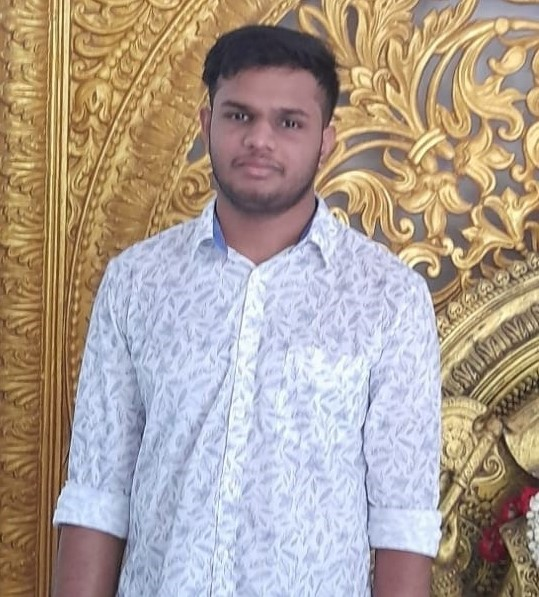
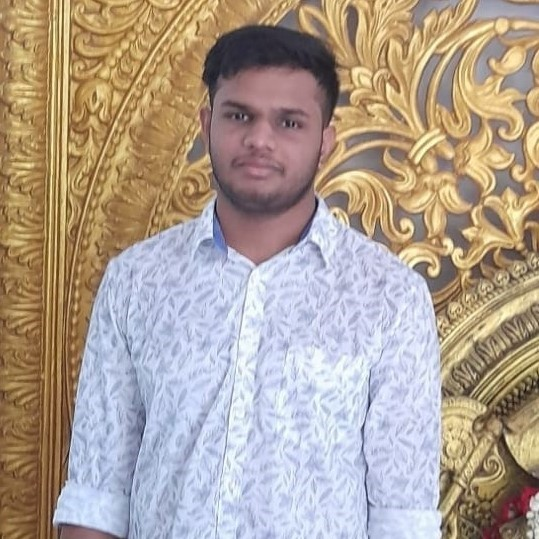
Update Unwanted code removed | Resized Team Imagesages

diff --git a/index.html b/index.html
@@ -395,7 +395,7 @@
 
           <div class="col-lg-6 mt-4 mt-lg-0" data-aos="zoom-in" data-aos-delay="200">
             <div class="member d-flex align-items-start">
-              <div class="pic"><img src="assets/img/team/mentor.jpg" class="img-fluid" alt=""></div>
+              <div class="pic" style="width: 480px;"><img src="assets/img/team/mentor.jpg" class="img-fluid" alt=""></div>
               <div class="member-info">
                 <h4>Hari S</h4>
                 <span><b>MENTOR</b></span>
@@ -425,15 +425,16 @@
                 </div>
               </div>
             </div>
-          </div>
+          </div>        
 
+          
           <div class="col-lg-6 mt-4" data-aos="zoom-in" data-aos-delay="400">
             <div class="member d-flex align-items-start">
-              <div class="pic"><img src="assets/img/team/febin.jpg" class="img-fluid" alt=""></div>
+              <div class="pic"><img src="assets/img/team/brighty.jpg" class="img-fluid" alt=""></div>
               <div class="member-info">
-                <h4>Febin Mon Saji</h4>
-                <span><b>SECURITY MENTOR</b></span>
-                <p>As a Security Mentor, I hold certifications as a Certified Ethical Hacker and Red Team Professional. My expertise in the security field allows me to provide valuable guidance and insights to help individuals and organizations navigate the ever-evolving landscape of cybersecurity.</p>
+                <h4>Brighty Jiji Abraham</h4>
+                <span><b>TECH-MENTOR</b></span>
+                <p> The point of using Lorem Ipsum is that it has a more-or-less normal distribution of letters, as opposed to using 'Content here, content here', making it look like readable English.</p>
                 <div class="social">
                   <a href=""><i class="ri-twitter-fill"></i></a>
                   <a href=""><i class="ri-facebook-fill"></i></a>
@@ -444,14 +445,13 @@
             </div>
           </div>
 
-          
           <div class="col-lg-6 mt-4" data-aos="zoom-in" data-aos-delay="400">
             <div class="member d-flex align-items-start">
-              <div class="pic"><img src="assets/img/team/brighty.jpg" class="img-fluid" alt=""></div>
+              <div class="pic" style="width: 480px;" ><img src="assets/img/team/febin.jpg" class="img-fluid" alt=""></div>
               <div class="member-info">
-                <h4>Brighty Jiji Abraham</h4>
-                <span><b>TECH-MENTOR</b></span>
-                <p>It is a long established fact that a reader will be distracted by the readable content of a page when looking at its layout. The point of using Lorem Ipsum is that it has a more-or-less normal distribution of letters, as opposed to using 'Content here, content here', making it look like readable English.</p>
+                <h4>Febin Mon Saji</h4>
+                <span><b>SECURITY MENTOR</b></span>
+                <p>As a Security Mentor, I hold certifications as a Certified Ethical Hacker and Red Team Professional. My expertise in the security field allows me to provide valuable guidance and insights to help individuals and organizations navigate the ever-evolving landscape of cybersecurity.</p>
                 <div class="social">
                   <a href=""><i class="ri-twitter-fill"></i></a>
                   <a href=""><i class="ri-facebook-fill"></i></a>
@@ -487,7 +487,7 @@
               <div class="member-info">
                 <h4>Aswathy S</h4>
                 <span><b>WEB DEVELOPER</b></span>
-                <p>It is a long established fact that a reader will be distracted by the readable content of a page when looking at its layout. The point of using Lorem Ipsum is that it has a more-or-less normal distribution of letters, as opposed to using 'Content here, content here', making it look like readable English.</p>
+                <p> The point of using Lorem Ipsum is that it has a more-or-less normal distribution of letters, as opposed to using 'Content here, content here', making it look like readable English.</p>
                 <div class="social">
                   <a href=""><i class="ri-twitter-fill"></i></a>
                   <a href=""><i class="ri-facebook-fill"></i></a>
@@ -504,7 +504,7 @@
               <div class="member-info">
                 <h4>Amala <Body></Body></h4>
                 <span><b>PIC Editor</b></span>
-                <p>It is a long established fact that a reader will be distracted by the readable content of a page when looking at its layout. The point of using Lorem Ipsum is that it has a more-or-less normal distribution of letters, as opposed to using 'Content here, content here', making it look like readable English.</p>
+                <p> The point of using Lorem Ipsum is that it has a more-or-less normal distribution of letters, as opposed to using 'Content here, content here', making it look like readable English.</p>
                 <div class="social">
                   <a href=""><i class="ri-twitter-fill"></i></a>
                   <a href=""><i class="ri-facebook-fill"></i></a>
@@ -521,7 +521,7 @@
               <div class="member-info">
                 <h4>Jerin Joseph Sebastian</h4>
                 <span><b>CONTENT COLLECTOR</b></span>
-                <p>It is a long established fact that a reader will be distracted by the readable content of a page when looking at its layout. The point of using Lorem Ipsum is that it has a more-or-less normal distribution of letters, as opposed to using 'Content here, content here', making it look like readable English.</p>
+                <p> The point of using Lorem Ipsum is that it has a more-or-less normal distribution of letters, as opposed to using 'Content here, content here', making it look like readable English.</p>
                 <div class="social">
                   <a href=""><i class="ri-twitter-fill"></i></a>
                   <a href=""><i class="ri-facebook-fill"></i></a>
@@ -538,7 +538,7 @@
               <div class="member-info">
                 <h4>Subi O Kuttan</h4>
                 <span><b>PIC EDITOR</b></span>
-                <p>It is a long established fact that a reader will be distracted by the readable content of a page when looking at its layout. The point of using Lorem Ipsum is that it has a more-or-less normal distribution of letters, as opposed to using 'Content here, content here', making it look like readable English.</p>
+                <p> The point of using Lorem Ipsum is that it has a more-or-less normal distribution of letters, as opposed to using 'Content here, content here', making it look like readable English.</p>
                 <div class="social">
                   <a href=""><i class="ri-twitter-fill"></i></a>
                   <a href=""><i class="ri-facebook-fill"></i></a>
@@ -555,7 +555,7 @@
               <div class="member-info">
                 <h4>Sooraj Raj</h4>
                 <span><b>UI/UX DESIGNER</b></span>
-                <p>It is a long established fact that a reader will be distracted by the readable content of a page when looking at its layout. The point of using Lorem Ipsum is that it has a more-or-less normal distribution of letters, as opposed to using 'Content here, content here', making it look like readable English.</p>
+                <p> The point of using Lorem Ipsum is that it has a more-or-less normal distribution of letters, as opposed to using 'Content here, content here', making it look like readable English.</p>
                 <div class="social">
                   <a href=""><i class="ri-twitter-fill"></i></a>
                   <a href=""><i class="ri-facebook-fill"></i></a>
@@ -572,7 +572,7 @@
               <div class="member-info">
                 <h4>R. Devanarayanan</h4>
                 <span><b>PIC EDITOR</b></span>
-                <p>It is a long established fact that a reader will be distracted by the readable content of a page when looking at its layout. The point of using Lorem Ipsum is that it has a more-or-less normal distribution of letters, as opposed to using 'Content here, content here', making it look like readable English.</p>
+                <p> The point of using Lorem Ipsum is that it has a more-or-less normal distribution of letters, as opposed to using 'Content here, content here', making it look like readable English.</p>
                 <div class="social">
                   <a href=""><i class="ri-twitter-fill"></i></a>
                   <a href=""><i class="ri-facebook-fill"></i></a>
@@ -589,7 +589,7 @@
               <div class="member-info">
                 <h4>Kashinath Remesh Kumar</h4>
                 <span><b>AUDIO EDITOR</b></span>
-                <p>It is a long established fact that a reader will be distracted by the readable content of a page when looking at its layout. The point of using Lorem Ipsum is that it has a more-or-less normal distribution of letters, as opposed to using 'Content here, content here', making it look like readable English.</p>
+                <p> The point of using Lorem Ipsum is that it has a more-or-less normal distribution of letters, as opposed to using 'Content here, content here', making it look like readable English.</p>
                 <div class="social">
                   <a href=""><i class="ri-twitter-fill"></i></a>
                   <a href=""><i class="ri-facebook-fill"></i></a>
@@ -599,207 +599,9 @@
               </div>
             </div>
           </div>
-
         </div>
-
       </div>
     </section><!-- End Team Section -->
-
-    <!-- ======= Pricing Section ======= 
-    <section id="pricing" class="pricing">
-      <div class="container" data-aos="fade-up">
-
-        <div class="section-title">
-          <h2>Pricing</h2>
-          <p>Magnam dolores commodi suscipit. Necessitatibus eius consequatur ex aliquid fuga eum quidem. Sit sint consectetur velit. Quisquam quos quisquam cupiditate. Et nemo qui impedit suscipit alias ea. Quia fugiat sit in iste officiis commodi quidem hic quas.</p>
-        </div>
-
-        <div class="row">
-
-          <div class="col-lg-4" data-aos="fade-up" data-aos-delay="100">
-            <div class="box">
-              <h3>Free Plan</h3>
-              <h4><sup>$</sup>0<span>per month</span></h4>
-              <ul>
-                <li><i class="bx bx-check"></i> Quam adipiscing vitae proin</li>
-                <li><i class="bx bx-check"></i> Nec feugiat nisl pretium</li>
-                <li><i class="bx bx-check"></i> Nulla at volutpat diam uteera</li>
-                <li class="na"><i class="bx bx-x"></i> <span>Pharetra massa massa ultricies</span></li>
-                <li class="na"><i class="bx bx-x"></i> <span>Massa ultricies mi quis hendrerit</span></li>
-              </ul>
-              <a href="#" class="buy-btn">Get Started</a>
-            </div>
-          </div>
-
-          <div class="col-lg-4 mt-4 mt-lg-0" data-aos="fade-up" data-aos-delay="200">
-            <div class="box featured">
-              <h3>Business Plan</h3>
-              <h4><sup>$</sup>29<span>per month</span></h4>
-              <ul>
-                <li><i class="bx bx-check"></i> Quam adipiscing vitae proin</li>
-                <li><i class="bx bx-check"></i> Nec feugiat nisl pretium</li>
-                <li><i class="bx bx-check"></i> Nulla at volutpat diam uteera</li>
-                <li><i class="bx bx-check"></i> Pharetra massa massa ultricies</li>
-                <li><i class="bx bx-check"></i> Massa ultricies mi quis hendrerit</li>
-              </ul>
-              <a href="#" class="buy-btn">Get Started</a>
-            </div>
-          </div>
-
-          <div class="col-lg-4 mt-4 mt-lg-0" data-aos="fade-up" data-aos-delay="300">
-            <div class="box">
-              <h3>Developer Plan</h3>
-              <h4><sup>$</sup>49<span>per month</span></h4>
-              <ul>
-                <li><i class="bx bx-check"></i> Quam adipiscing vitae proin</li>
-                <li><i class="bx bx-check"></i> Nec feugiat nisl pretium</li>
-                <li><i class="bx bx-check"></i> Nulla at volutpat diam uteera</li>
-                <li><i class="bx bx-check"></i> Pharetra massa massa ultricies</li>
-                <li><i class="bx bx-check"></i> Massa ultricies mi quis hendrerit</li>
-              </ul>
-              <a href="#" class="buy-btn">Get Started</a>
-            </div>
-          </div>
-
-        </div>
-
-      </div>
-    </section>
-     End Pricing Section -->
-
-    <!-- ======= Frequently Asked Questions Section ======= 
-    <section id="faq" class="faq section-bg">
-      <div class="container" data-aos="fade-up">
-
-        <div class="section-title">
-          <h2>Frequently Asked Questions</h2>
-          <p>Magnam dolores commodi suscipit. Necessitatibus eius consequatur ex aliquid fuga eum quidem. Sit sint consectetur velit. Quisquam quos quisquam cupiditate. Et nemo qui impedit suscipit alias ea. Quia fugiat sit in iste officiis commodi quidem hic quas.</p>
-        </div>
-
-        <div class="faq-list">
-          <ul>
-            <li data-aos="fade-up" data-aos-delay="100">
-              <i class="bx bx-help-circle icon-help"></i> <a data-bs-toggle="collapse" class="collapse" data-bs-target="#faq-list-1">Non consectetur a erat nam at lectus urna duis? <i class="bx bx-chevron-down icon-show"></i><i class="bx bx-chevron-up icon-close"></i></a>
-              <div id="faq-list-1" class="collapse show" data-bs-parent=".faq-list">
-                <p>
-                  Feugiat pretium nibh ipsum consequat. Tempus iaculis urna id volutpat lacus laoreet non curabitur gravida. Venenatis lectus magna fringilla urna porttitor rhoncus dolor purus non.
-                </p>
-              </div>
-            </li>
-
-            <li data-aos="fade-up" data-aos-delay="200">
-              <i class="bx bx-help-circle icon-help"></i> <a data-bs-toggle="collapse" data-bs-target="#faq-list-2" class="collapsed">Feugiat scelerisque varius morbi enim nunc? <i class="bx bx-chevron-down icon-show"></i><i class="bx bx-chevron-up icon-close"></i></a>
-              <div id="faq-list-2" class="collapse" data-bs-parent=".faq-list">
-                <p>
-                  Dolor sit amet consectetur adipiscing elit pellentesque habitant morbi. Id interdum velit laoreet id donec ultrices. Fringilla phasellus faucibus scelerisque eleifend donec pretium. Est pellentesque elit ullamcorper dignissim. Mauris ultrices eros in cursus turpis massa tincidunt dui.
-                </p>
-              </div>
-            </li>
-
-            <li data-aos="fade-up" data-aos-delay="300">
-              <i class="bx bx-help-circle icon-help"></i> <a data-bs-toggle="collapse" data-bs-target="#faq-list-3" class="collapsed">Dolor sit amet consectetur adipiscing elit? <i class="bx bx-chevron-down icon-show"></i><i class="bx bx-chevron-up icon-close"></i></a>
-              <div id="faq-list-3" class="collapse" data-bs-parent=".faq-list">
-                <p>
-                  Eleifend mi in nulla posuere sollicitudin aliquam ultrices sagittis orci. Faucibus pulvinar elementum integer enim. Sem nulla pharetra diam sit amet nisl suscipit. Rutrum tellus pellentesque eu tincidunt. Lectus urna duis convallis convallis tellus. Urna molestie at elementum eu facilisis sed odio morbi quis
-                </p>
-              </div>
-            </li>
-
-            <li data-aos="fade-up" data-aos-delay="400">
-              <i class="bx bx-help-circle icon-help"></i> <a data-bs-toggle="collapse" data-bs-target="#faq-list-4" class="collapsed">Tempus quam pellentesque nec nam aliquam sem et tortor consequat? <i class="bx bx-chevron-down icon-show"></i><i class="bx bx-chevron-up icon-close"></i></a>
-              <div id="faq-list-4" class="collapse" data-bs-parent=".faq-list">
-                <p>
-                  Molestie a iaculis at erat pellentesque adipiscing commodo. Dignissim suspendisse in est ante in. Nunc vel risus commodo viverra maecenas accumsan. Sit amet nisl suscipit adipiscing bibendum est. Purus gravida quis blandit turpis cursus in.
-                </p>
-              </div>
-            </li>
-
-            <li data-aos="fade-up" data-aos-delay="500">
-              <i class="bx bx-help-circle icon-help"></i> <a data-bs-toggle="collapse" data-bs-target="#faq-list-5" class="collapsed">Tortor vitae purus faucibus ornare. Varius vel pharetra vel turpis nunc eget lorem dolor? <i class="bx bx-chevron-down icon-show"></i><i class="bx bx-chevron-up icon-close"></i></a>
-              <div id="faq-list-5" class="collapse" data-bs-parent=".faq-list">
-                <p>
-                  Laoreet sit amet cursus sit amet dictum sit amet justo. Mauris vitae ultricies leo integer malesuada nunc vel. Tincidunt eget nullam non nisi est sit amet. Turpis nunc eget lorem dolor sed. Ut venenatis tellus in metus vulputate eu scelerisque.
-                </p>
-              </div>
-            </li>
-
-          </ul>
-        </div>
-
-      </div>
-    </section>
-       End Frequently Asked Questions Section -->
-
-    <!-- ======= Contact Section ======= 
-    <section id="contact" class="contact">
-      <div class="container" data-aos="fade-up">
-
-        <div class="section-title">
-          <h2>Contact</h2>
-          <p>Magnam dolores commodi suscipit. Necessitatibus eius consequatur ex aliquid fuga eum quidem. Sit sint consectetur velit. Quisquam quos quisquam cupiditate. Et nemo qui impedit suscipit alias ea. Quia fugiat sit in iste officiis commodi quidem hic quas.</p>
-        </div>
-
-        <div class="row">
-
-          <div class="col-lg-5 d-flex align-items-stretch">
-            <div class="info">
-              <div class="address">
-                <i class="bi bi-geo-alt"></i>
-                <h4>Location:</h4>
-                <p>A108 Adam Street, New York, NY 535022</p>
-              </div>
-
-              <div class="email">
-                <i class="bi bi-envelope"></i>
-                <h4>Email:</h4>
-                <p>info@example.com</p>
-              </div>
-
-              <div class="phone">
-                <i class="bi bi-phone"></i>
-                <h4>Call:</h4>
-                <p>+1 5589 55488 55s</p>
-              </div>
-
-              <iframe src="https://www.google.com/maps/embed?pb=!1m14!1m8!1m3!1d12097.433213460943!2d-74.0062269!3d40.7101282!3m2!1i1024!2i768!4f13.1!3m3!1m2!1s0x0%3A0xb89d1fe6bc499443!2sDowntown+Conference+Center!5e0!3m2!1smk!2sbg!4v1539943755621" frameborder="0" style="border:0; width: 100%; height: 290px;" allowfullscreen></iframe>
-            </div>
-
-          </div>
-
-          <div class="col-lg-7 mt-5 mt-lg-0 d-flex align-items-stretch">
-            <form action="forms/contact.php" method="post" role="form" class="php-email-form">
-              <div class="row">
-                <div class="form-group col-md-6">
-                  <label for="name">Your Name</label>
-                  <input type="text" name="name" class="form-control" id="name" required>
-                </div>
-                <div class="form-group col-md-6">
-                  <label for="name">Your Email</label>
-                  <input type="email" class="form-control" name="email" id="email" required>
-                </div>
-              </div>
-              <div class="form-group">
-                <label for="name">Subject</label>
-                <input type="text" class="form-control" name="subject" id="subject" required>
-              </div>
-              <div class="form-group">
-                <label for="name">Message</label>
-                <textarea class="form-control" name="message" rows="10" required></textarea>
-              </div>
-              <div class="my-3">
-                <div class="loading">Loading</div>
-                <div class="error-message"></div>
-                <div class="sent-message">Your message has been sent. Thank you!</div>
-              </div>
-              <div class="text-center"><button type="submit">Send Message</button></div>
-            </form>
-          </div>
-
-        </div>
-
-      </div>
-    </section>
-       End Contact Section -->
 
 
         <!-- ======= Cta Section ======= -->

diff --git a/developer-info.html b/developer-info.html
@@ -113,19 +113,6 @@
   <!-- ======= Footer ======= -->
   <footer id="footer">
 
-    <div class="footer-newsletter">
-      <div class="container">
-        <div class="row justify-content-center">
-          <div class="col-lg-6">
-            <h4>Join Our Newsletter</h4>
-            <p>Tamen quem nulla quae legam multos aute sint culpa legam noster magna</p>
-            <form action="" method="post">
-              <input type="email" name="email"><input type="submit" value="Subscribe">
-            </form>
-          </div>
-        </div>
-      </div>
-    </div>
 
     <div class="footer-top">
       <div class="container">
